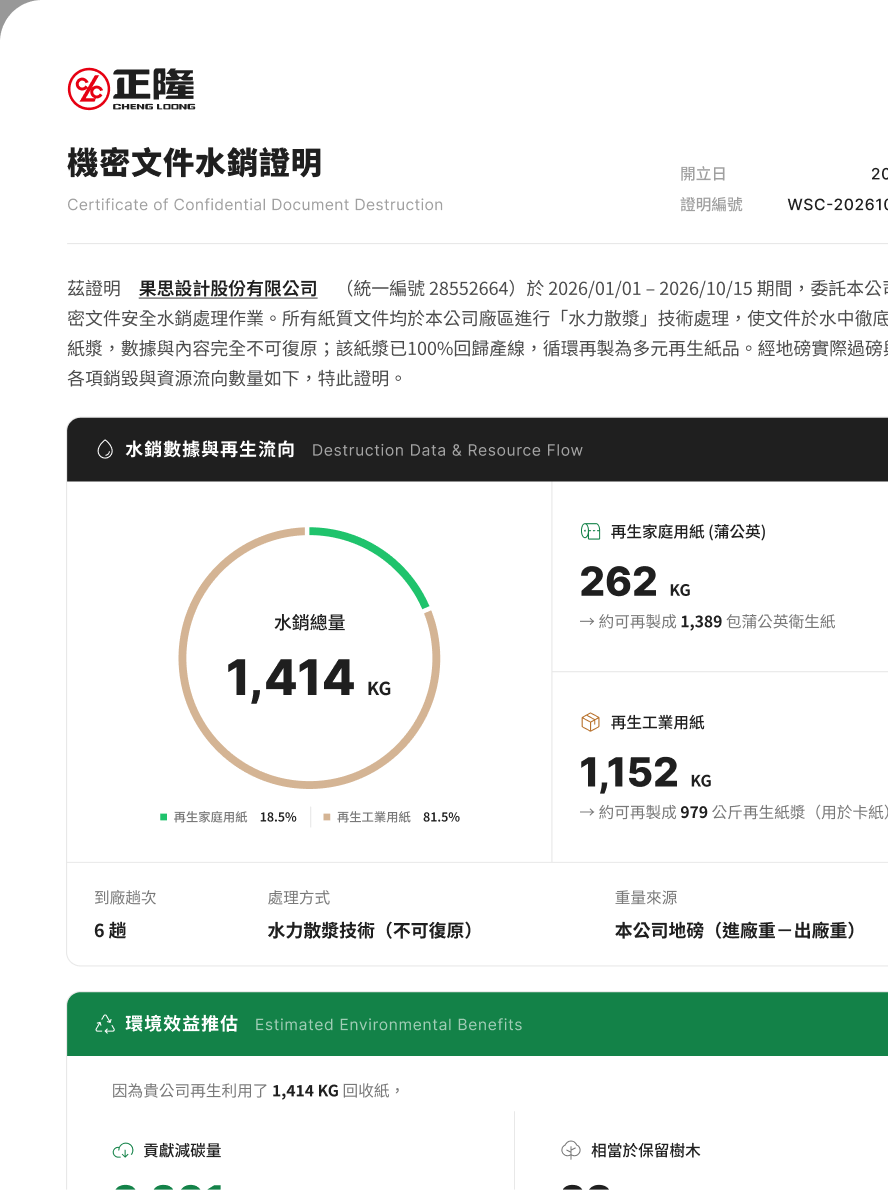
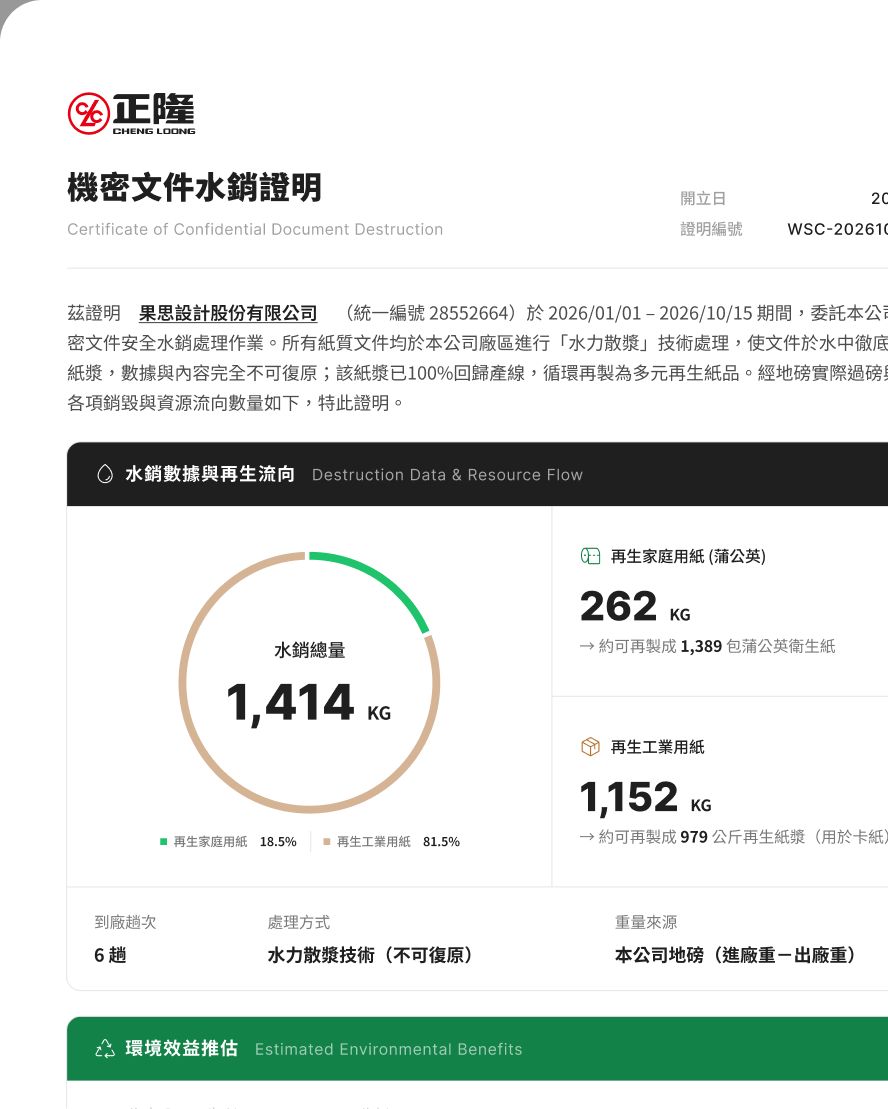
R2: Lottie starts under the crossing arrow; certificate re-exported after Figma size tweak
Claude-Session: https://claude.ai/code/session_01DNVcy9hAWfEoBXu333tfb9

diff --git a/site/draft.css b/site/draft.css
@@ -2811,14 +2811,14 @@ button { font: inherit; color: inherit; background: none; border: 0; padding: 0;
 .cl-green__dot.is-active,
 .cl-green__pager-dot.is-active { background: var(--cl-green-400); }
 
-/* certificate_img：pdf 可視範圍，left 64、top 59.47 */
+/* certificate_img：pdf 可視範圍，left 64、top 86.53（客戶 R2 微調證明書尺寸） */
 .cl-green__doc { background: #989898; }
 .cl-green__doc-img {
   position: absolute;
   left: 64px;
-  top: 59.4734px;
+  top: 86.5338px;
   width: 296px;
-  height: 396.6667px;
+  height: 369.4662px;
   max-width: none;
 }
 
@@ -2911,7 +2911,7 @@ button { font: inherit; color: inherit; background: none; border: 0; padding: 0;
 .cl-green__doc { container-type: size; }
 .cl-green__coins { transform-origin: calc(50cqw + 114.0849px) calc(50cqh + 17.0088px); }
 .cl-green__paper { transform-origin: calc(50cqw + 249.012px) calc(50cqh + 150.0389px); }
-.cl-green__doc-img { transform-origin: calc(50cqw - 64px) calc(50cqh - 59.4734px); }
+.cl-green__doc-img { transform-origin: calc(50cqw - 64px) calc(50cqh - 86.5338px); }
 /* esg：內層 270 高垂直置中、img left -15%、top -32 → 容器中心在圖的 47.56%／167px */
 .cl-green__esg-hand { transform-origin: 47.56% 167px; }
 
@@ -2966,7 +2966,7 @@ button { font: inherit; color: inherit; background: none; border: 0; padding: 0;
   position: relative;
   display: flex;
   width: 100%;
-  max-width: 920px;   /* 文件圖原寬，圖本身已含白邊 */
+  max-width: 1019px;   /* 文件圖原寬（R2：1812:37717 改為 1019），圖本身已含白邊 */
   max-height: 100%;
   border-radius: 20px;
   background: var(--cl-white);
@@ -3039,8 +3039,8 @@ button { font: inherit; color: inherit; background: none; border: 0; padding: 0;
   .cl-green__doc { height: 456px; }
   .cl-green__side { height: 456px; }
   /* 證明圖是可視範圍（貼右下），欄寬改變時跟著右下角 */
-  .cl-green__doc-img { left: auto; right: 0; top: auto; bottom: -.1401px; }
-  .cl-green__doc-img { transform-origin: calc(296px - 50cqw) calc(396.6667px - 50cqh - .1401px); }
+  .cl-green__doc-img { left: auto; right: 0; top: auto; bottom: 0; }
+  .cl-green__doc-img { transform-origin: calc(296px - 50cqw) calc(369.4662px - 50cqh); }
   /* 資訊框左右 12（641–1199 規則）會蓋到右下點點：點點改到右上（同手機版位置） */
   .cl-green__dots { top: 20px; bottom: auto; }
 }
@@ -3136,8 +3136,8 @@ button { font: inherit; color: inherit; background: none; border: 0; padding: 0;
   .cl-green__dots { top: 16px; right: 16px; bottom: auto; }
 
   /* pdf：手機版為電腦版 0.9083 倍（311.56／343） */
-  .cl-green__doc-img { left: 46.6291px; top: 51px; width: 268.8648px; height: 360.2955px; }
-  .cl-green__doc-img { transform-origin: calc(50cqw - 46.6291px) calc(50cqh - 51px); }
+  .cl-green__doc-img { left: 46.6291px; top: 78.5016px; width: 268.8648px; height: 335.598px; }
+  .cl-green__doc-img { transform-origin: calc(50cqw - 46.6291px) calc(50cqh - 78.5016px); }
   .cl-green__coins { transform-origin: calc(50cqw + 115.11px) calc(50cqh + 15.4497px); }
   .cl-green__paper { transform-origin: calc(50cqw + 210.2768px) calc(50cqh + 116.9137px); }
 

diff --git a/site/css/sections/05-green.css b/site/css/sections/05-green.css
@@ -266,14 +266,14 @@
 .cl-green__dot.is-active,
 .cl-green__pager-dot.is-active { background: var(--cl-green-400); }
 
-/* certificate_img：pdf 可視範圍，left 64、top 59.47 */
+/* certificate_img：pdf 可視範圍，left 64、top 86.53（客戶 R2 微調證明書尺寸） */
 .cl-green__doc { background: #989898; }
 .cl-green__doc-img {
   position: absolute;
   left: 64px;
-  top: 59.4734px;
+  top: 86.5338px;
   width: 296px;
-  height: 396.6667px;
+  height: 369.4662px;
   max-width: none;
 }
 
@@ -366,7 +366,7 @@
 .cl-green__doc { container-type: size; }
 .cl-green__coins { transform-origin: calc(50cqw + 114.0849px) calc(50cqh + 17.0088px); }
 .cl-green__paper { transform-origin: calc(50cqw + 249.012px) calc(50cqh + 150.0389px); }
-.cl-green__doc-img { transform-origin: calc(50cqw - 64px) calc(50cqh - 59.4734px); }
+.cl-green__doc-img { transform-origin: calc(50cqw - 64px) calc(50cqh - 86.5338px); }
 /* esg：內層 270 高垂直置中、img left -15%、top -32 → 容器中心在圖的 47.56%／167px */
 .cl-green__esg-hand { transform-origin: 47.56% 167px; }
 
@@ -421,7 +421,7 @@
   position: relative;
   display: flex;
   width: 100%;
-  max-width: 920px;   /* 文件圖原寬，圖本身已含白邊 */
+  max-width: 1019px;   /* 文件圖原寬（R2：1812:37717 改為 1019），圖本身已含白邊 */
   max-height: 100%;
   border-radius: 20px;
   background: var(--cl-white);
@@ -494,8 +494,8 @@
   .cl-green__doc { height: 456px; }
   .cl-green__side { height: 456px; }
   /* 證明圖是可視範圍（貼右下），欄寬改變時跟著右下角 */
-  .cl-green__doc-img { left: auto; right: 0; top: auto; bottom: -.1401px; }
-  .cl-green__doc-img { transform-origin: calc(296px - 50cqw) calc(396.6667px - 50cqh - .1401px); }
+  .cl-green__doc-img { left: auto; right: 0; top: auto; bottom: 0; }
+  .cl-green__doc-img { transform-origin: calc(296px - 50cqw) calc(369.4662px - 50cqh); }
   /* 資訊框左右 12（641–1199 規則）會蓋到右下點點：點點改到右上（同手機版位置） */
   .cl-green__dots { top: 20px; bottom: auto; }
 }
@@ -591,8 +591,8 @@
   .cl-green__dots { top: 16px; right: 16px; bottom: auto; }
 
   /* pdf：手機版為電腦版 0.9083 倍（311.56／343） */
-  .cl-green__doc-img { left: 46.6291px; top: 51px; width: 268.8648px; height: 360.2955px; }
-  .cl-green__doc-img { transform-origin: calc(50cqw - 46.6291px) calc(50cqh - 51px); }
+  .cl-green__doc-img { left: 46.6291px; top: 78.5016px; width: 268.8648px; height: 335.598px; }
+  .cl-green__doc-img { transform-origin: calc(50cqw - 46.6291px) calc(50cqh - 78.5016px); }
   .cl-green__coins { transform-origin: calc(50cqw + 115.11px) calc(50cqh + 15.4497px); }
   .cl-green__paper { transform-origin: calc(50cqw + 210.2768px) calc(50cqh + 116.9137px); }
 

diff --git a/site/index.html b/site/index.html
@@ -600,7 +600,7 @@
           <p data-reveal class="cl-green__desc" data-figma="1695:20362" data-figma-s="2139:30412">每次送件從預約、到廠、過磅至完成銷毀，皆留存完整紀錄。企業可於系統查詢歷次明細，並自動換算貢獻減碳量、保留樹木棵數等環境效益。</p>
         </div>
 
-        <!-- certificate_img：證明文件為 Figma 內的 UI 示意稿，匯出為圖（1600:16469 可視範圍 @3x） -->
+        <!-- certificate_img：證明文件為 Figma 內的 UI 示意稿，匯出為圖（1600:16469 可視範圍 @3x，R2 起 pdf 下移到 top 86.53） -->
         <!-- R1：hover 出現「查看」按鈕（觸控裝置常駐），點擊開彈窗看全圖（Figma 1812:37717） -->
         <div class="cl-green__doc cl-zoom" data-figma="1695:20363" data-figma-s="2139:30413">
           <img class="cl-green__doc-img" data-figma="1695:20364" data-figma-s="2139:30414" src="assets/05-green/certificate-pdf@3x.png" alt="機密文件水銷證明範例" loading="lazy">
@@ -637,7 +637,7 @@
     <div class="cl-green__modal-panel" data-figma="1812:37717">
       <button class="cl-green__modal-close" type="button" aria-label="關閉" data-close><svg viewBox="0 0 24 24" width="24" height="24" aria-hidden="true"><path d="M6 6l12 12M18 6L6 18" fill="none" stroke="currentColor" stroke-width="2" stroke-linecap="round"/></svg></button>
       <div class="cl-green__modal-body">
-        <img class="cl-green__modal-img" src="assets/05-green/certificate-full@2x.png" alt="機密文件水銷證明範例（全頁）" width="920" height="1447" loading="lazy" decoding="async">
+        <img class="cl-green__modal-img" src="assets/05-green/certificate-full@2x.png" alt="機密文件水銷證明範例（全頁）" width="1019" height="1442" loading="lazy" decoding="async">
       </div>
     </div>
   </div>

diff --git a/site/src/sections/05-green.html b/site/src/sections/05-green.html
@@ -76,7 +76,7 @@
           <p data-reveal class="cl-green__desc" data-figma="1695:20362" data-figma-s="2139:30412">每次送件從預約、到廠、過磅至完成銷毀，皆留存完整紀錄。企業可於系統查詢歷次明細，並自動換算貢獻減碳量、保留樹木棵數等環境效益。</p>
         </div>
 
-        <!-- certificate_img：證明文件為 Figma 內的 UI 示意稿，匯出為圖（1600:16469 可視範圍 @3x） -->
+        <!-- certificate_img：證明文件為 Figma 內的 UI 示意稿，匯出為圖（1600:16469 可視範圍 @3x，R2 起 pdf 下移到 top 86.53） -->
         <!-- R1：hover 出現「查看」按鈕（觸控裝置常駐），點擊開彈窗看全圖（Figma 1812:37717） -->
         <div class="cl-green__doc cl-zoom" data-figma="1695:20363" data-figma-s="2139:30413">
           <img class="cl-green__doc-img" data-figma="1695:20364" data-figma-s="2139:30414" src="assets/05-green/certificate-pdf@3x.png" alt="機密文件水銷證明範例" loading="lazy">
@@ -113,7 +113,7 @@
     <div class="cl-green__modal-panel" data-figma="1812:37717">
       <button class="cl-green__modal-close" type="button" aria-label="關閉" data-close><svg viewBox="0 0 24 24" width="24" height="24" aria-hidden="true"><path d="M6 6l12 12M18 6L6 18" fill="none" stroke="currentColor" stroke-width="2" stroke-linecap="round"/></svg></button>
       <div class="cl-green__modal-body">
-        <img class="cl-green__modal-img" src="assets/05-green/certificate-full@2x.png" alt="機密文件水銷證明範例（全頁）" width="920" height="1447" loading="lazy" decoding="async">
+        <img class="cl-green__modal-img" src="assets/05-green/certificate-full@2x.png" alt="機密文件水銷證明範例（全頁）" width="1019" height="1442" loading="lazy" decoding="async">
       </div>
     </div>
   </div>

diff --git a/_design-loop/evidence/r2/02-about/rebuild_lottie.py b/_design-loop/evidence/r2/02-about/rebuild_lottie.py
@@ -2,6 +2,7 @@
 原檔各段、箭頭遮罩各有獨立時間軸，段 1 有預先畫好的半段、箭頭遮罩領先或殘留。
 改成一條「蛇」：頭 H(t)、尾 T(t) 沿整條 ∞ 依序走（A → 段2 → 段3 → 段4 → B），
 每段 trim 與箭頭遮罩都由 H、T 換算，保證線段與箭頭同步進退、頭尾同一個起點同一方向。
+起點（客戶指定）：交會點下方的箭頭底下＝段 1 路徑的 0%，往左下走，順序 B → A → 段2 → 段3 → 段4，回到交會點。
   進場：影格 0–DRAW 頭走完全長；停留到 EXIT0；退場 EXIT0–816 尾走完全長；第 0 與第 816 影格都全空，循環接得上。
 用法：python3 rebuild_lottie.py 原檔.json 輸出.json"""
 import json, math, sys
@@ -14,7 +15,7 @@ DRAW, EXIT0 = 180, 636       # 進場結束、退場開始
 # 路徑長（lotlen.py 量得）：段1 整條 536.3，A＝13.985%→100%、B＝0→13.985%
 SEG1, A_START = 536.3, 13.985233741163084
 LEN = {'A': SEG1 * (100 - A_START) / 100, 'seg2': 334.0, 'seg3': 803.3, 'seg4': 604.0, 'B': SEG1 * A_START / 100}
-ORDER = ['A', 'seg2', 'seg3', 'seg4', 'B']
+ORDER = ['B', 'A', 'seg2', 'seg3', 'seg4']
 TOTAL = sum(LEN.values())
 start = {}
 acc = 0
@@ -42,8 +43,14 @@ def seg_val(seg, x):
     if seg == 'B': return A_START * f
     return 100 * f
 
+# 箭頭遮罩原本以 A 起點對應 MASK_S0（停留時 s→e 正好一圈＝50.791%）。起點改到 B 起點（早 LEN['B']）後，
+# 對應值 −0.35%（遮罩路徑比線段晚約 8px 開始）：用第一圈、負值夾到 0。
+# 不可改用第二圈：遮罩路徑不足兩圈，第二圈的結尾會蓋到交會點下方箭頭，退場時那顆箭頭殘留到最後
+MASK_K = (MASK_FULL - MASK_S0) / TOTAL          # 每 px 對應的遮罩 %
+MASK_B0 = MASK_S0 - MASK_K * LEN['B']
+
 def mask_val(x):
-    return MASK_S0 + (MASK_FULL - MASK_S0) * x / TOTAL
+    return max(0.0, MASK_B0 + MASK_K * x)
 
 def track(fn):
     """逐影格線性關鍵影格；數值不變的連續影格合併，最後一格不帶緩動"""
@@ -83,4 +90,4 @@ mask['s'] = track(lambda t: mask_val(tail(t)))
 mask['e'] = track(lambda t: mask_val(head(t)))
 
 json.dump(d, open(dst, 'w'), ensure_ascii=False, separators=(',', ':'))
-print('total', round(TOTAL, 1), {k: round(v, 1) for k, v in start.items()})
+print('total', round(TOTAL, 1), {k: round(v, 1) for k, v in start.items()}, 'mask', round(MASK_B0, 3), '->', round(mask_val(TOTAL), 3))

diff --git a/_design-loop/audit-source.md b/_design-loop/audit-source.md
@@ -76,3 +76,5 @@
 | 2026-10-21 | 02 水銷循環 Lottie（第二次修正） | 各段與箭頭遮罩各自的時間軸 | 改成單一蛇頭／蛇尾驅動：0–180 依序畫完整條 ∞、180–636 停留、636–816 從同一起點同方向收掉；箭頭遮罩由頭尾位置換算，和線段同步；重建腳本 evidence/r2/02-about/rebuild_lottie.py | 客戶（R2） |
 | 2026-10-21 | 04 四格卡 | 靜態 | 自動輪播每 8 秒；hover／點擊／觸控從該格重新計時，不暫停；綠底由下往上長、離開時縮回 0；手機照片框撐滿卡寬 | 客戶（R2，含修正） |
 | 2026-10-21 | 01 首屏白卡 | 白卡左緣 80、文字在 144 | 文字左緣對齊下方段落版心（電腦 80／平板 40；超寬時跟著 1280 版心），白卡外框往左退；說明文字因卡片變寬斷行改變 | 客戶（R2） |
+| 2026-10-21 | 02 水銷循環 Lottie（第三次修正） | 段 1 從 13.985% 開始 | 進場與退場起點改到交會點下方箭頭底下（段 1 路徑 0%），順序 B → A → 段2 → 段3 → 段4；箭頭遮罩改用第一圈（負值夾 0），退場不再殘留交會點箭頭 | 客戶（R2） |
+| 2026-10-21 | 05 證明文件 | 1600:16017 證明書元件微調（pdf 在卡內下移至 top 86.53） | 卡內證明圖重新匯出 @3x，電腦 top 86.53／高 369.47、手機 top 78.50／高 335.60；彈窗大圖 1812:37717 重新匯出（1019×1442 @2x），彈窗最大寬 1019 | 客戶（R2） |
